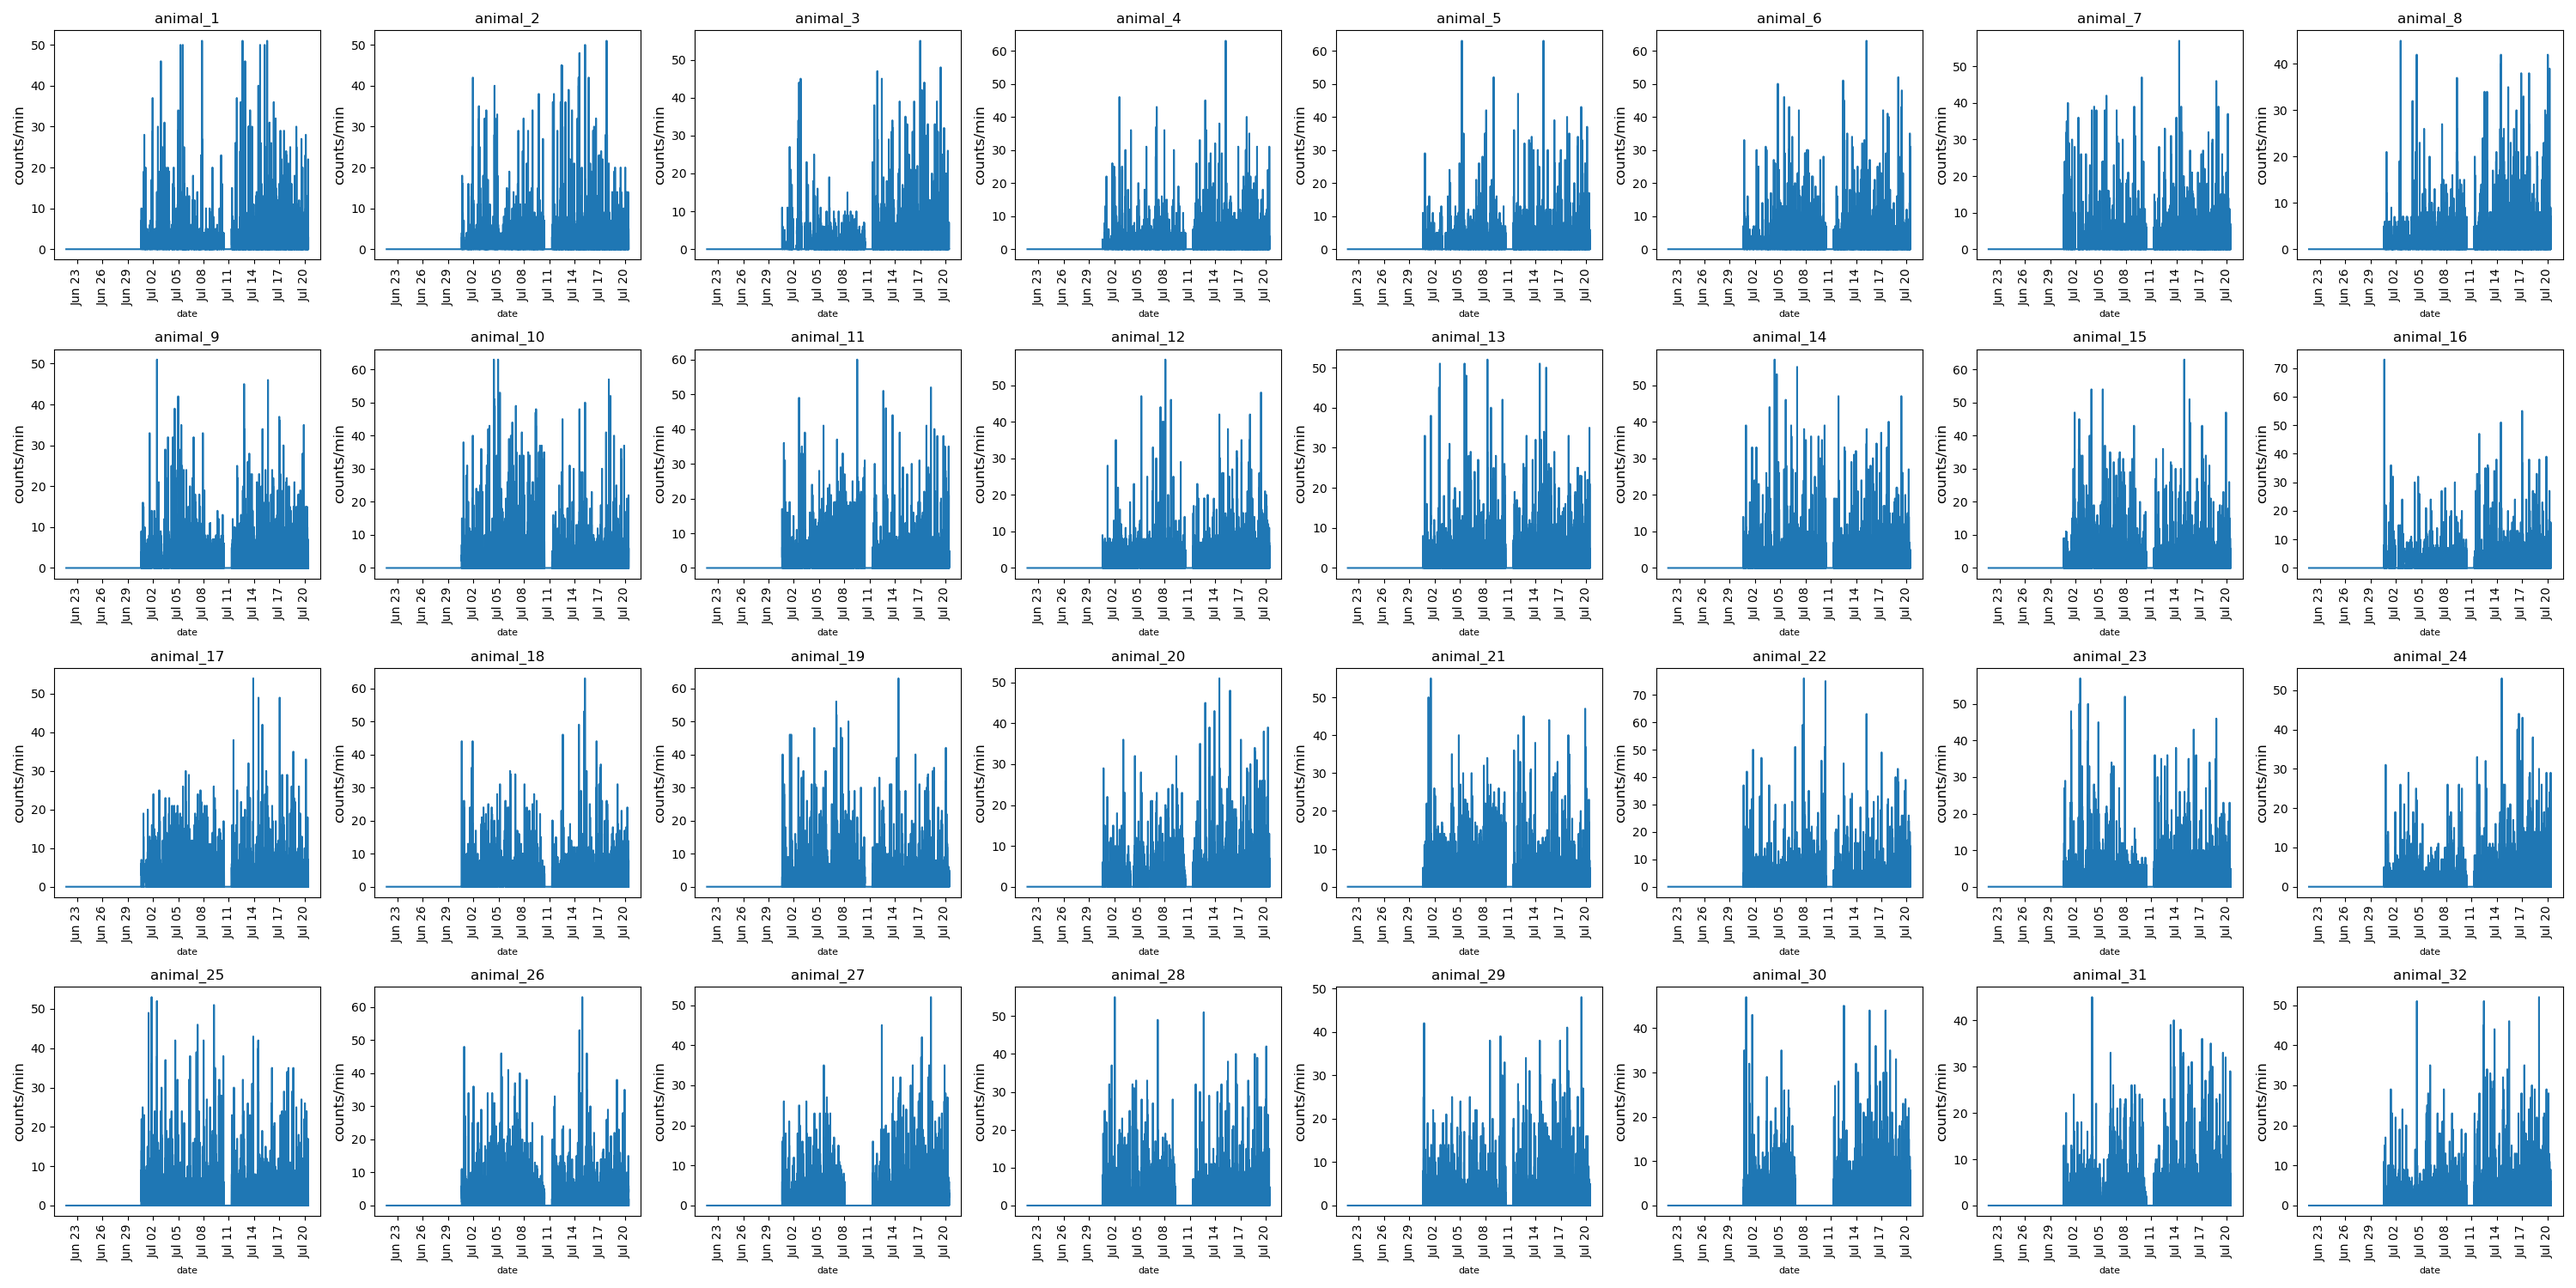
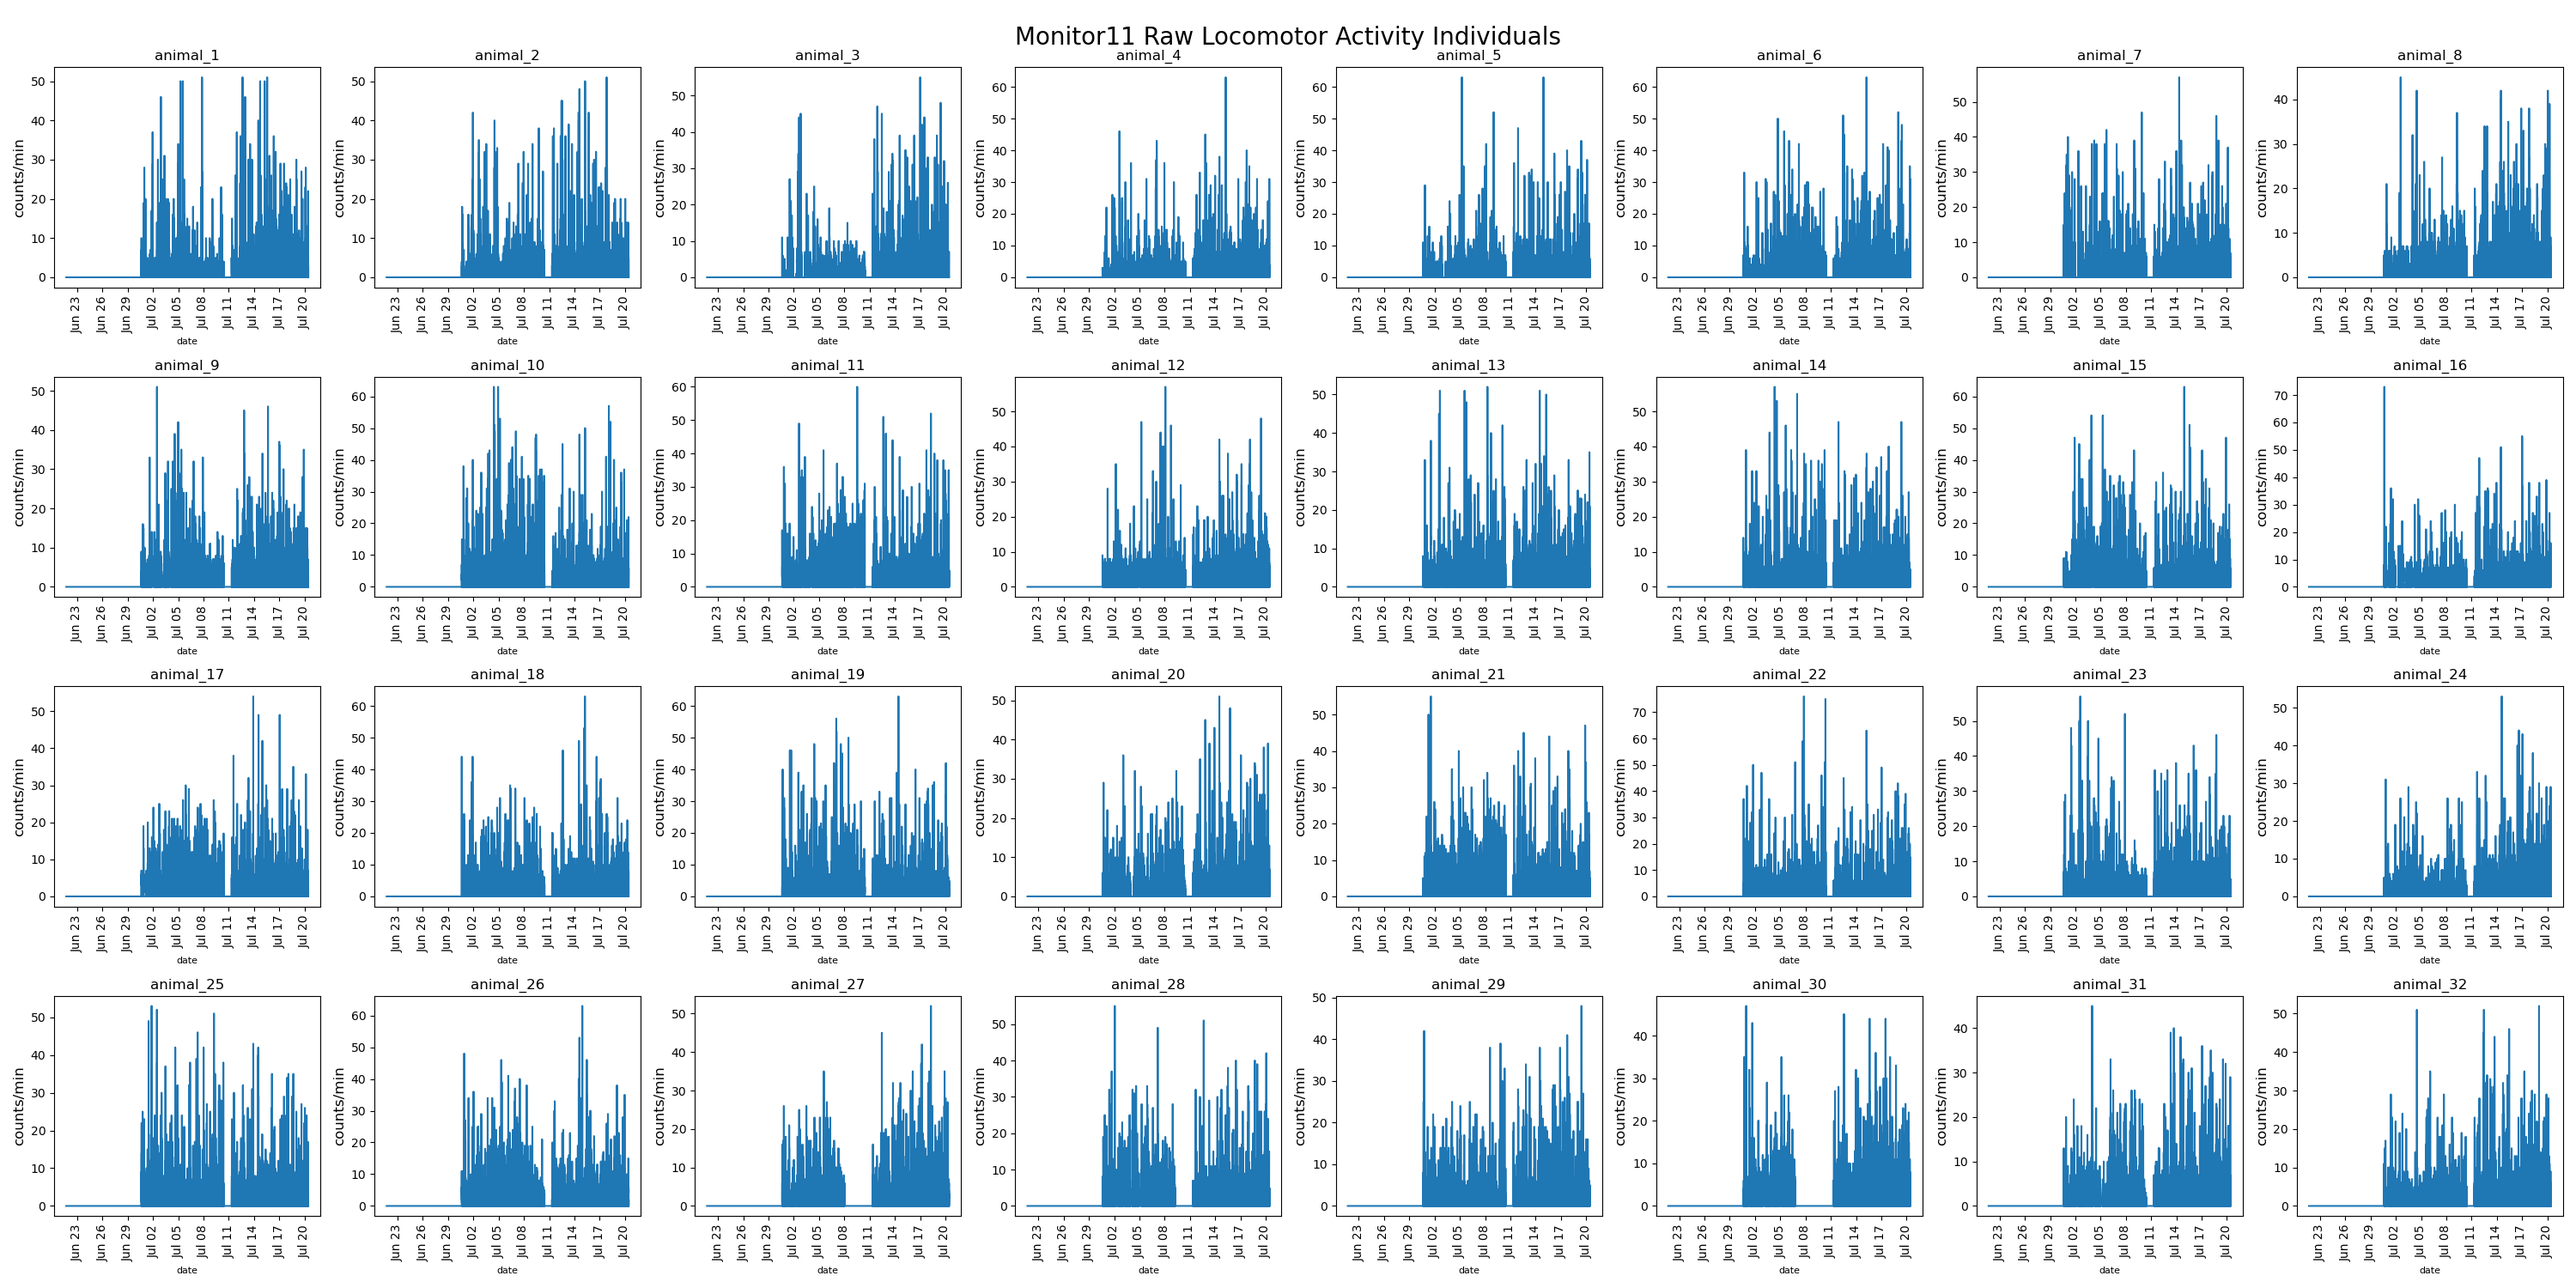
Added monitor file names to plot titles.

diff --git a/data-wrangling/analyze.py b/data-wrangling/analyze.py
@@ -101,12 +101,11 @@ print("Running the analyze.py script, written by Kenneth O'Dell Jr.")
 print("Today's date is: ", datetime.now())
 print(f"You have sliced a total of {num_days} days")
 
-
 # Create directories, if they don't exist.
 dir_path = "../" + args.directory
 cleaned_data_path = dir_path + "/cleaned_data_all_animals"
 result_path = dir_path + "/results_pre_sliced_all_animals"
-sliced_path = dir_path + "/sliced_data_all_animals" + str(num_days) + "_days_" + start_slice + "_to_" + end_slice
+sliced_path = dir_path + "/sliced_data_all_animals_" + str(num_days) + "_days_" + start_slice + "_to_" + end_slice
 exclude_animals_path = dir_path + "/excluded_animals"
 
 if not os.path.exists(dir_path):
@@ -213,7 +212,7 @@ def drawLD(minute_ticks, ax1):
                 # If the date is greater than the ramp_end_date, then we are in the DD period.
                 ax1.axvspan(minute_tick, minute_tick + pd.Timedelta(minutes=1), facecolor='black', alpha=0.3)
 
-def plot_raw(data: pd.DataFrame, i: int):
+def plot_raw(data: pd.DataFrame, i: int, monitor_name: str = "Monitor"):
 
     data.plot(kind='line', legend=False, figsize = (12, 8)) # figsize is in inches
 
@@ -231,7 +230,7 @@ def plot_raw(data: pd.DataFrame, i: int):
     plt.tick_params('x', labelrotation=90)
 
     # Customize the aesthetics
-    plt.title("Raw Locomotor Activity")
+    plt.title(monitor_name + " Raw Locomotor Activity")
     plt.xlabel("Local Time")
     plt.ylabel("Counts per minute")
 
@@ -239,7 +238,10 @@ def plot_raw(data: pd.DataFrame, i: int):
     return plt
 
 # Create a figure and a grid of subplots
-def subplots_raw(data: pd.DataFrame, j: int, days: int = 1):
+def subplots_raw(data: pd.DataFrame,
+                j: int,
+                days: int = 1,
+                monitor_name: str = "Monitor"):
 
     # Grid dimensions for our main figure that holds our axs subplots
     nrows = 4
@@ -265,11 +267,15 @@ def subplots_raw(data: pd.DataFrame, j: int, days: int = 1):
         axs[i].set_ylabel('counts/min', fontsize = 12)
         axs[i].set_xlabel('date', fontsize = 8)
 
-        
+    fig.suptitle(monitor_name + ' Raw Locomotor Activity Individuals', fontsize = 20) 
     plt.tight_layout()
     return plt
 
-def plot_raw_sliced(data: pd.DataFrame, i: int, start_slice: str, end_slice: str):
+def plot_raw_sliced(data: pd.DataFrame, 
+                    i: int, 
+                    start_slice: str,
+                    end_slice: str,
+                    monitor_name: str = ""):
 
     # Assuming `data` is your DataFrame, we will create a plot with a single subplot.
     fig, ax1 = plt.subplots(figsize=(12, 12))
@@ -305,7 +311,7 @@ def plot_raw_sliced(data: pd.DataFrame, i: int, start_slice: str, end_slice: str
     ### END OF LIGHT AND DARK BARS ###
 
     # Set titles and axes names
-    ax1.set_title('Raw Locomotor Activity ' + str(num_days) + "_days_" + start_slice + "_to_" + end_slice, fontsize = 16)
+    ax1.set_title(monitor_name + ' Raw Locomotor Activity ' + str(num_days) + "_days_" + start_slice + "_to_" + end_slice, fontsize = 16)
     ax1.set_ylabel('Counts per minute', fontsize = 14)
     ax1.set_xlabel('Local time', fontsize = 14)
 
@@ -313,7 +319,12 @@ def plot_raw_sliced(data: pd.DataFrame, i: int, start_slice: str, end_slice: str
     return plt
 
 # Create a figure and a grid of subplots
-def subplots_raw_sliced(data: pd.DataFrame, j: int, start_time: str, end_time: str, days: int = 1):
+def subplots_raw_sliced(data: pd.DataFrame, 
+                        j: int, 
+                        start_time: str, 
+                        end_time: str, 
+                        days: int = 1, 
+                        monitor_name: str = ""):
 
     # Grid dimensions for our main figure that holds our axs subplots
     nrows = 4
@@ -330,7 +341,6 @@ def subplots_raw_sliced(data: pd.DataFrame, j: int, start_time: str, end_time: s
         axs[i].set_title(name)
         
         # Aesthetics
-
         # Reformat the x-axis labels using datetime
         axs[i].xaxis.set_major_locator(mdates.DayLocator(interval=days))  # Set major tick every 3 days
         axs[i].xaxis.set_major_formatter(mdates.DateFormatter('%b %d'))  # Format the datetime as 'HH:MM', instead of showing the whole dt
@@ -346,7 +356,8 @@ def subplots_raw_sliced(data: pd.DataFrame, j: int, start_time: str, end_time: s
         ### DRAW LIGHT AND DARK BARS ###
         drawLD(minute_ticks, axs[i])
         ### END OF LIGHT AND DARK BARS ###
-        
+
+    fig.suptitle(monitor_name + ' Raw Locomotor Activity ' + str(num_days) + "_days_" + start_slice + "_to_" + end_slice, fontsize = 16)
     plt.tight_layout()
     return plt
    
@@ -406,7 +417,10 @@ for i, monitor in enumerate(monitor_files):
 
 if args.exclude_animals:
     # ADD CODE HERE!!!
-    print("EXCLUDING ANIMALS!!!!!")
+    # EXCLUDE ANIMALS
+    # UPDATE monitor_files list
+    # Basically run the same code as below, but with the exclusion of the animals you want to exclude.
+    print("FOR TESTING - YOU ARE WANTING TO EXCLUDE ANIMALS, YES?!")
 
 #################
 # Else, plot all of the individuals!
@@ -420,7 +434,11 @@ else:
 
     # Iterate through monitors and plot raw data
     for i, monitor in enumerate(monitor_files):
-        plot_raw(monitor, i).savefig(result_path + '/fig_01/' + just_file_names[i].replace('.txt', '') + "_raw_data_fig_01.png")
+
+        plot_raw(monitor,
+                 i,
+                 just_file_names[i].replace('.txt', '')).savefig(result_path + '/fig_01/' + just_file_names[i].replace('.txt', '') + "_raw_data_fig_01.png")
+        
         print(f"Saved raw data plot to {result_path + '/fig_01/' + just_file_names[i].replace('.txt', '') + '_raw_data_fig1.png'}")
 
 
@@ -429,9 +447,13 @@ else:
     ################
    
     for j, monitor in enumerate(monitor_files):
-        subplots_raw(monitor, j, 3).savefig(result_path + '/fig_02/' + just_file_names[j].replace('.txt', '') + "_raw_individuals_fig_02.png")
+        
+        subplots_raw(monitor,
+                     j,
+                     3, # Intervals of days for the x-axis
+                     just_file_names[j].replace('.txt', '')).savefig(result_path + '/fig_02/' + just_file_names[j].replace('.txt', '') + "_raw_individuals_fig_02.png")
+        
         print(f"Saved raw individuals data plot to {result_path + '/fig_02/' + just_file_names[j].replace('.txt', '') + '_raw_individuals_fig_02.png'}")
-
 
 
     #################
@@ -452,7 +474,14 @@ else:
     #################
 
     for i, monitor in enumerate(monitor_slices):
-        plot_raw_sliced(monitor, i, start_slice, end_slice).savefig(sliced_path + '/fig_03/' + just_file_names[i].replace('.txt', '') + "_raw_sliced_data_fig_03.png")
+
+        plot_raw_sliced(monitor,
+                        i,
+                        start_slice,
+                        end_slice,
+                        just_file_names[i].replace('.txt', '')
+                        ).savefig(sliced_path + '/fig_03/' + just_file_names[i].replace('.txt', '') + "_raw_sliced_data_fig_03.png")
+        
         print(f"Saved raw data plot to {sliced_path + '/fig_03/' + just_file_names[i].replace('.txt', '') + '_raw_sliced_data_fig_03.png'}")
 
 
@@ -461,7 +490,15 @@ else:
     ################
  
     for j, slice in enumerate(monitor_slices):
-        subplots_raw_sliced(slice, j, start_time=start_slice, end_time=end_slice).savefig(sliced_path + '/fig_04/' + just_file_names[j].replace('.txt', '') + "_raw_individuals_sliced_fig_04.png")
+
+        subplots_raw_sliced(slice,
+                            j,
+                            start_slice,
+                            end_slice,
+                            1, # Intervals of days for the x-axis
+                            just_file_names[j].replace('.txt', '')
+                            ).savefig(sliced_path + '/fig_04/' + just_file_names[j].replace('.txt', '') + "_raw_individuals_sliced_fig_04.png")
+        
         print(f"Saved raw individuals sliced data plot to {sliced_path + '/fig_04/' + just_file_names[j].replace('.txt', '') + '_raw_individuals_sliced_fig_04.png'}")
 
     #################
